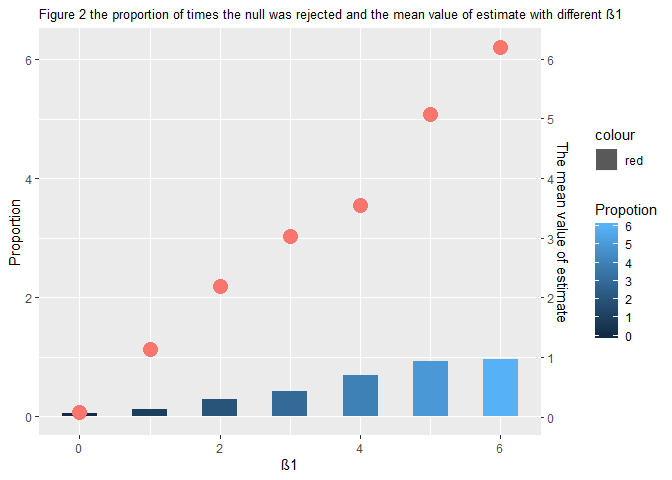
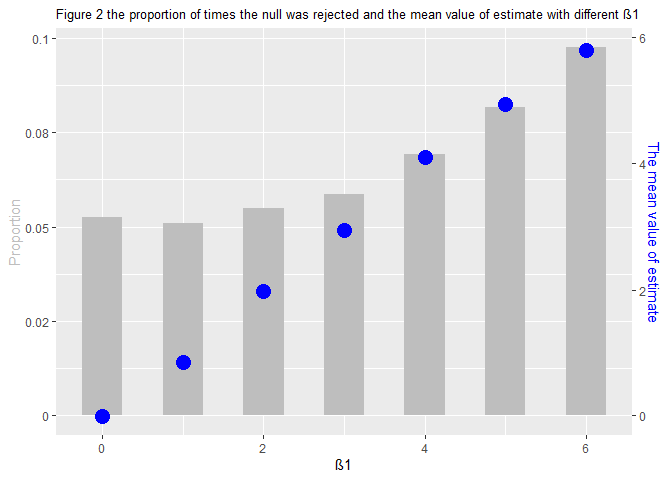
op the second axis

diff --git a/p8105_hw5_yh2736.md b/p8105_hw5_yh2736.md
@@ -165,14 +165,14 @@ increase over time from 1.141 in week 1 to 5.119 week 8.
 ###set the fix value
 n = 30
 beta0 = 2
-run_times = 1000
+run_times = 10000
 
 ### a funtion to obtain the estimate and p-value
-fun_sim_regression = function(run_times, beta0, beta1 = i){
+fun_sim_regression = function(n, beta0, beta1 = i){
   
   sim_data = tibble(
-    x = rnorm(run_times),
-    y = beta0 + beta1 * x + rnorm(run_times, 0, 50)
+    x = rnorm(n),
+    y = beta0 + beta1 * x + rnorm(n, 0, 50)
     )
   
   ls_fit = lm(y ~ x, data = sim_data)
@@ -189,10 +189,10 @@ fun_sim_regression = function(run_times, beta0, beta1 = i){
 
 ###a funtion to RUN 10000 times to obtain the estimate and p-value
 fun_tidy_est_pvalue = function(i){
-  rerun(n, fun_sim_regression(run_times, beta0, i)) %>% 
+  rerun(run_times, fun_sim_regression(n, beta0, i)) %>% 
     bind_rows() %>% 
     mutate(
-      beta1 = rep(i, n)
+      beta1 = rep(i, run_times)
     )
 }
 
@@ -237,14 +237,16 @@ mean_dataset <- sim_results %>%
 
 left_join(propo_dataset, mean_dataset) %>% 
   ggplot(aes(x = beta1)) +
-  geom_col(aes(y = propotion, fill = beta1), width = 0.5, show.legend = TRUE) +
-  geom_point(aes(y = mean, color = "red"), size = 5, show.legend = FALSE) +
+  geom_col(aes(y = propotion), 
+           width = 0.5, fill = "grey") +
+  geom_point(aes(y = mean / 60), 
+             size = 5, color = "blue") +
   scale_y_continuous(
     name = "Proportion", 
-    sec.axis = sec_axis(~., 
-                        breaks = seq(0, 6, 1),
+    sec.axis = sec_axis(~ . *60,
                         name =  "The mean value of estimate"
-                        )
+                        ),
+    labels = function(b) {round(b, digits = 2)}
   ) +
   labs(
     title = "Figure 2 the proportion of times the null was rejected and the mean value of estimate with different β1",
@@ -253,7 +255,9 @@ left_join(propo_dataset, mean_dataset) %>%
   xlab("β1") +
   ylab("") +
   theme(
-    plot.title = element_text(size = 10)
+    plot.title = element_text(size = 10),
+    axis.title.y.left = element_text(color = "grey"),
+    axis.title.y.right = element_text(color = "blue")
   )
 ```
 
